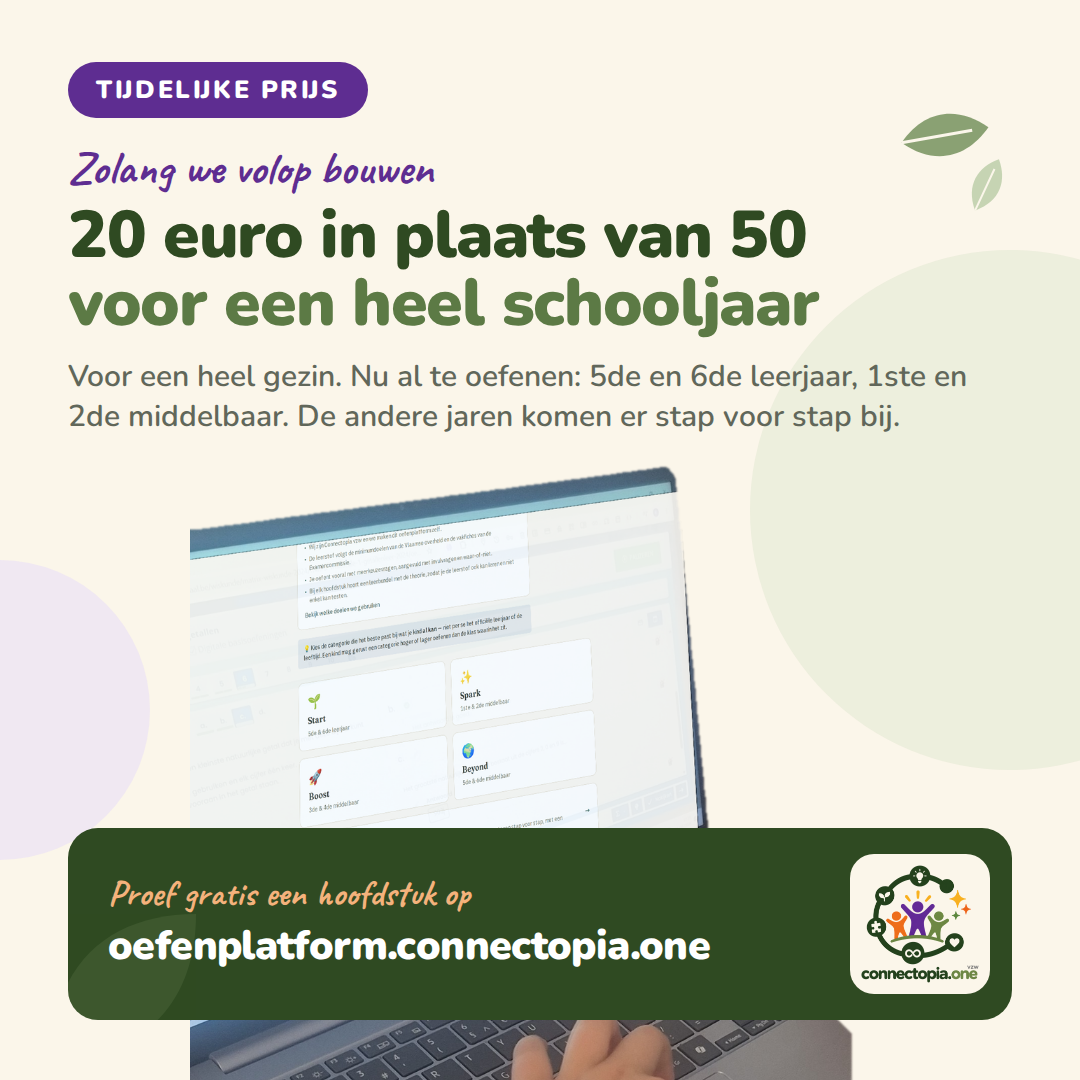
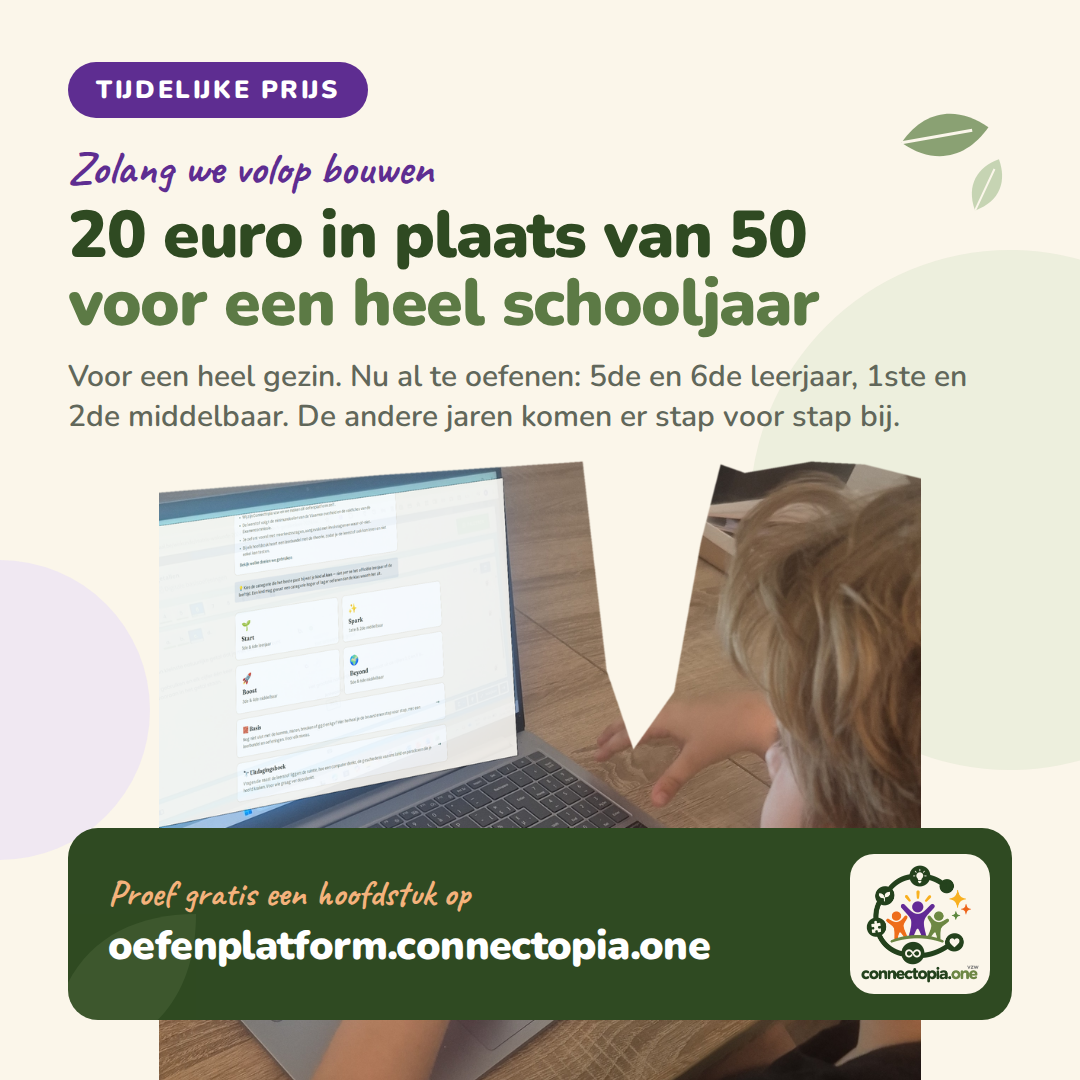
De uitsnede langs de lijn die Kim zelf tekende
Kim tekende de snijlijn met de hand op haar foto: bovenaan langs de
tafelrand, een V die het stuk tafel tussen de laptop en hem weghaalt, en
onderaan dwars over zijn arm. Dat is een veel eenvoudiger vorm dan een
silhouet rond de laptop alleen, en het houdt Mats er wel op. Nu staan zij
allebei op de post, met het oefenplatform op het scherm.

Claude-Session: https://claude.ai/code/session_01RndGgwwLWLzzwjpvUTuHxJ

Changed region(s): [[0.1222, 0.4278, 0.8556, 0.7639], [0.1222, 0.9472, 0.8556, 1.0]]

diff --git a/social/posts/bron/stijl.css b/social/posts/bron/stijl.css
@@ -163,12 +163,12 @@ body.metfiguur .mid { max-width: 596px; }
   buiten het blad, zodat je de rechte onderrand van de uitsnede niet ziet.
   De tekst blijft erboven; render.js waarschuwt als ze eronder schuift.
 */
-.figuurvak { position: absolute; left: 0; right: 0; top: 458px; bottom: 0; overflow: hidden; z-index: 1; }
-.figuur.breed { position: static; display: block; width: 700px; margin-left: 190px; height: auto; }
+.figuurvak { position: absolute; left: 0; right: 0; top: 456px; bottom: 0; overflow: hidden; z-index: 1; }
+.figuur.breed { position: static; display: block; width: 762px; margin-left: 159px; height: auto; }
 body.metfiguurbreed .kop p,
 body.metfiguurbreed .mid { max-width: none; }
 body.verhaal .figuurvak { top: 1130px; }
-body.verhaal .figuur.breed { width: 700px; margin-left: 190px; }
+body.verhaal .figuur.breed { width: 762px; margin-left: 159px; }
 
 /*
   Het verhaalformaat (1080 x 1920). Hetzelfde blad, maar hoger: meer lucht
